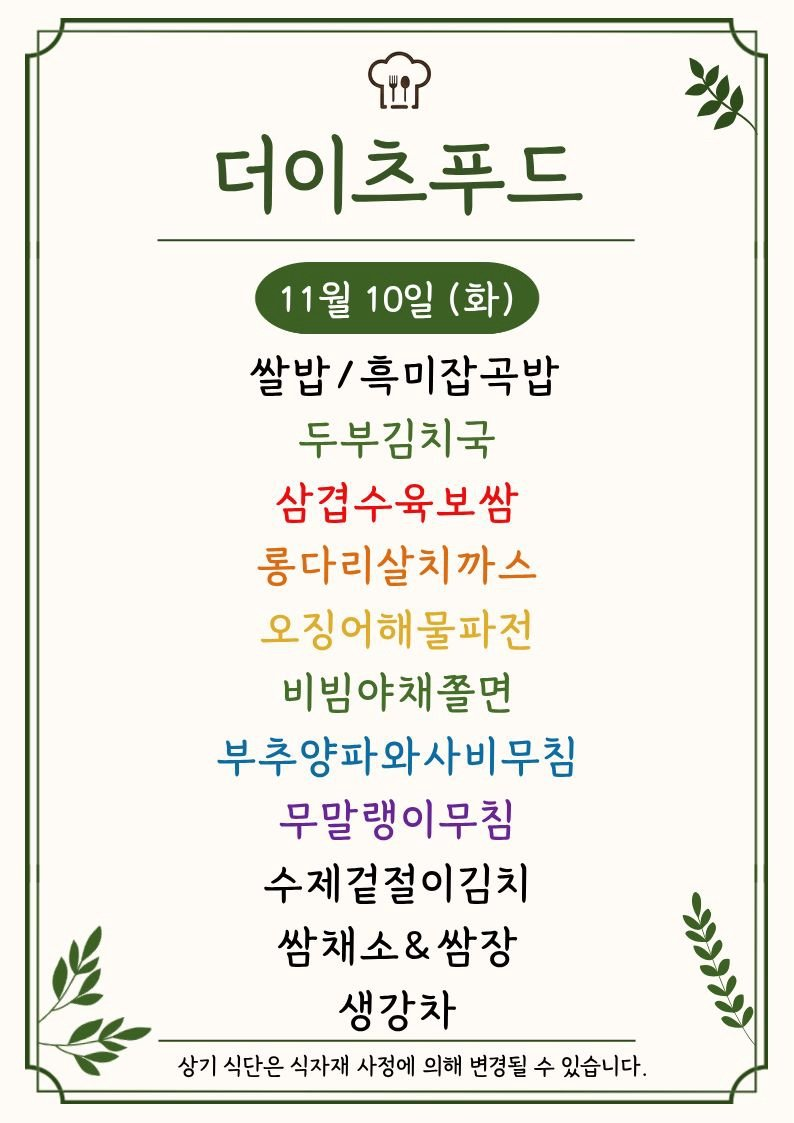
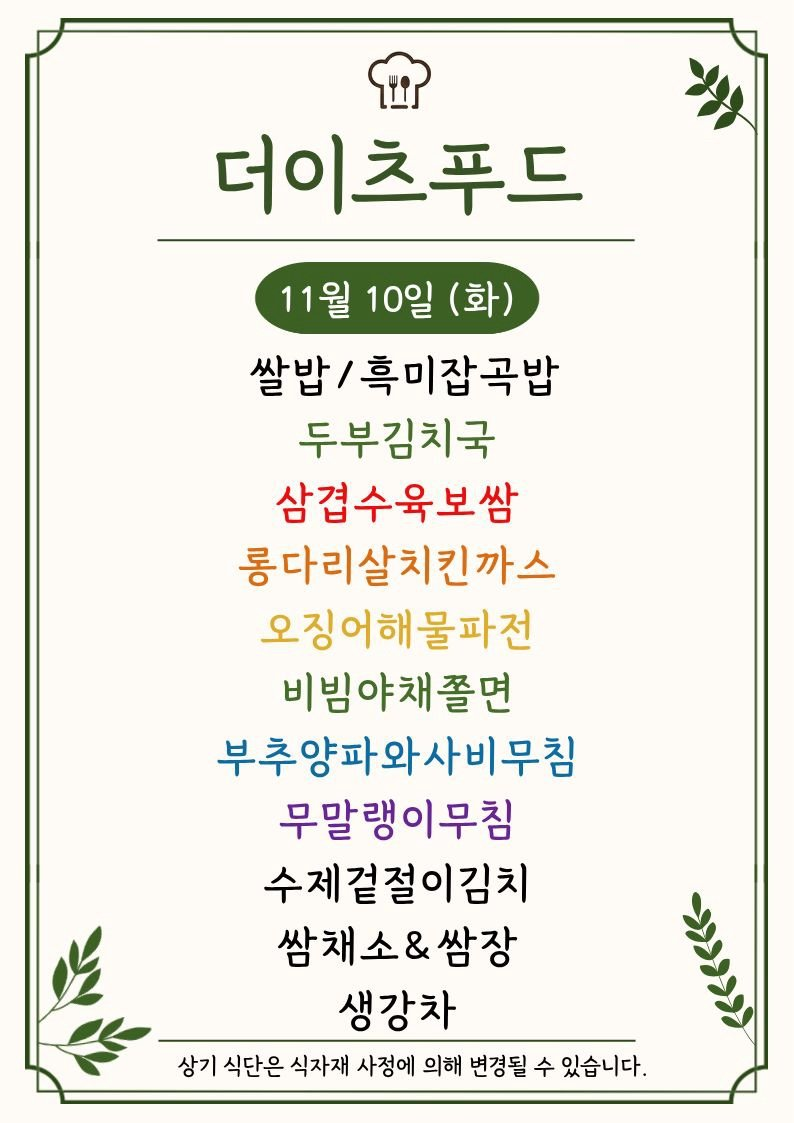
Update menu board assets

Changed region(s): [[0.3023, 0.4675, 0.6952, 0.5298]]

diff --git a/guro-menu/index.html b/guro-menu/index.html
@@ -32,7 +32,7 @@
   </header>
   <section class="meta">
     <div><small>기준 날짜</small><strong>2026년 11월 10일 화요일</strong></div>
-    <div><small>최종 갱신</small><strong>2026-11-10 11:15:16</strong></div>
+    <div><small>최종 갱신</small><strong>2026-11-10 11:18:39</strong></div>
     <div><small>등록 식당</small><strong>5개</strong></div>
   </section>
   <div class="notice">공개 카카오 채널의 메뉴 이미지를 자동 수집하고 OCR로 정리합니다. 텍스트에 오타가 있을 수 있으니 식단 이미지를 함께 확인해 주세요.</div>
@@ -76,7 +76,7 @@
         </div>
         <img class="menu-image" src="./images/the-eats-food.png" alt="더이츠푸드 식단 이미지" loading="lazy">
         <p class="message">최신 공개 식단 이미지의 텍스트입니다. 날짜는 원본 이미지를 확인해 주세요.</p>
-        <ul><li>쌀밥/흑미잡곡밥</li><li>두부김치국</li><li>롱다리살치까스</li><li>오징어해물파전</li><li>부추양파와사비무침</li><li>무말랭이무침</li><li>수제겉절이김치 0</li><li>쌈채소&amp;쌈장 %</li><li>생강차</li></ul>
+        <ul><li>쌀밥/흑미잡곡밥</li><li>두부김치국</li><li>삼겹수욱보쌈</li><li>롱다리살치킨까스</li><li>오징어해물파전</li><li>부추양파와사비무침</li><li>무말랭이무침</li><li>수제겉절이김치 &quot;</li><li>쌈채소&amp;쌈장 봅</li><li>생강차 Y</li></ul>
       </article>
 
       <article class="restaurant-card">

diff --git a/menu-today/index.html b/menu-today/index.html
@@ -209,7 +209,7 @@
 
     <section class="meta-bar">
       <div class="meta-card"><div class="meta-label">기준 날짜</div><div class="meta-value">2026년 11월 10일 화요일</div></div>
-      <div class="meta-card"><div class="meta-label">최종 가져온 시간</div><div class="meta-value">2026-11-10 11:15:06</div></div>
+      <div class="meta-card"><div class="meta-label">최종 가져온 시간</div><div class="meta-value">2026-11-10 11:18:27</div></div>
       <div class="meta-card"><div class="meta-label">확인 완료</div><div class="meta-value">9개 식당</div></div>
       <div class="meta-card"><div class="meta-label">준비중</div><div class="meta-value">3개 채널</div></div>
     </section>
